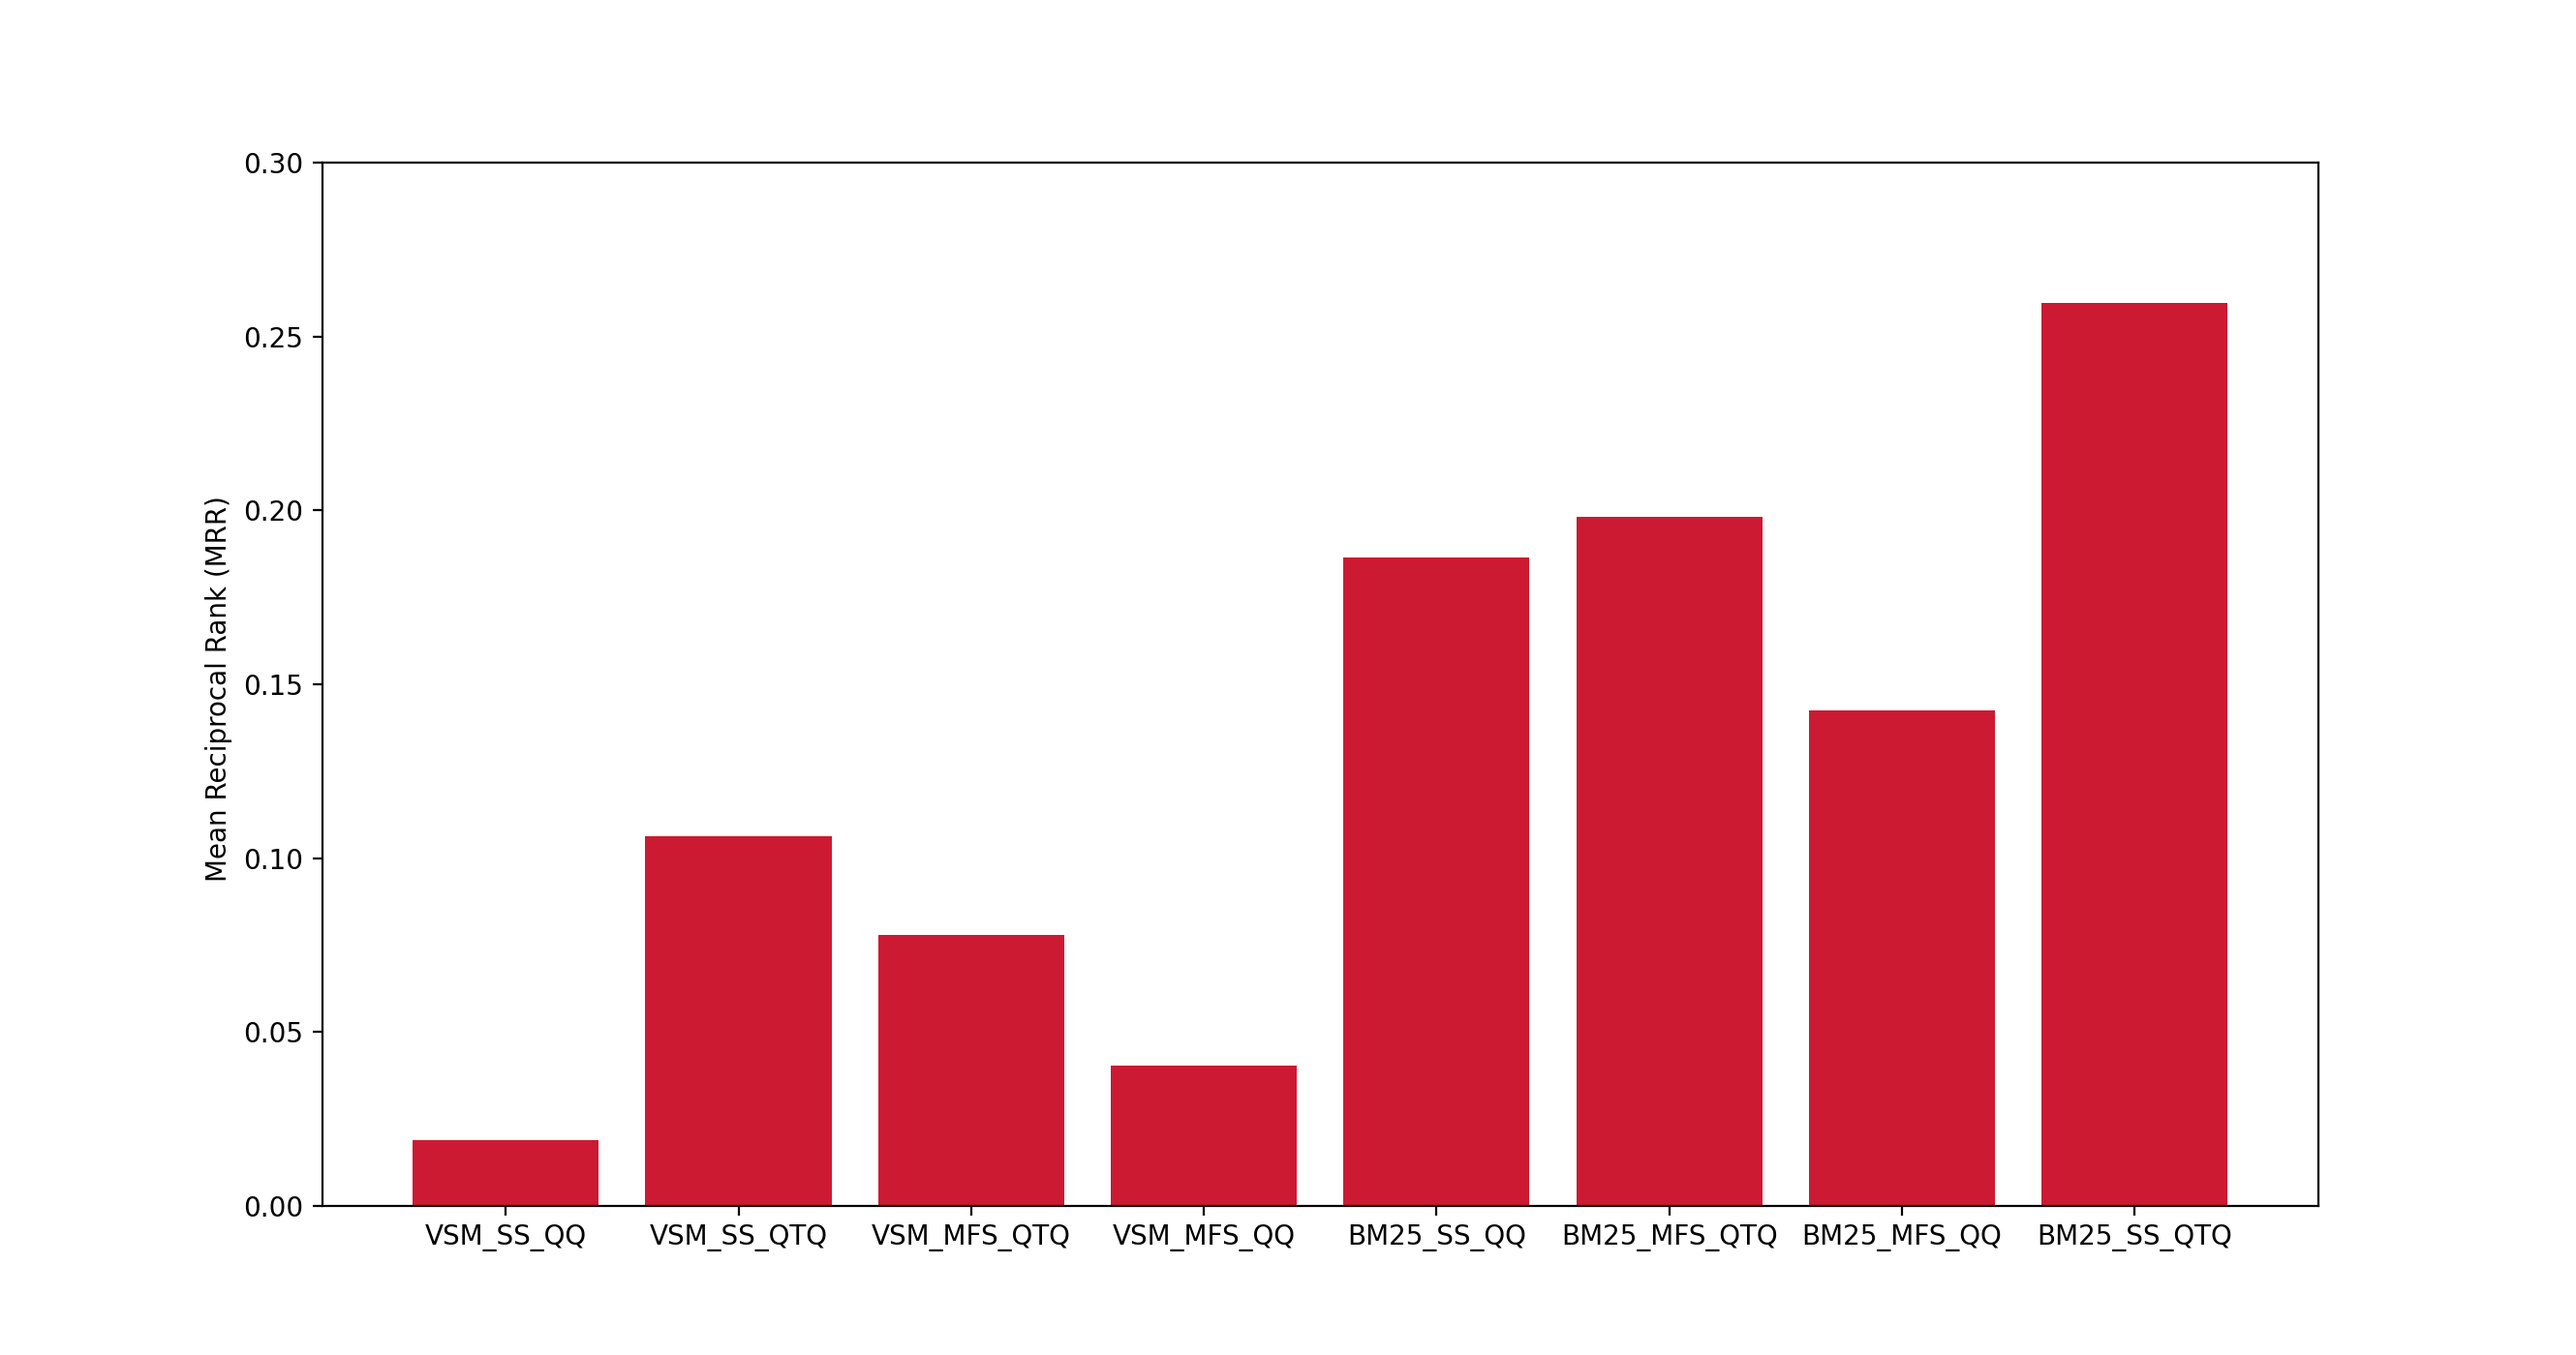
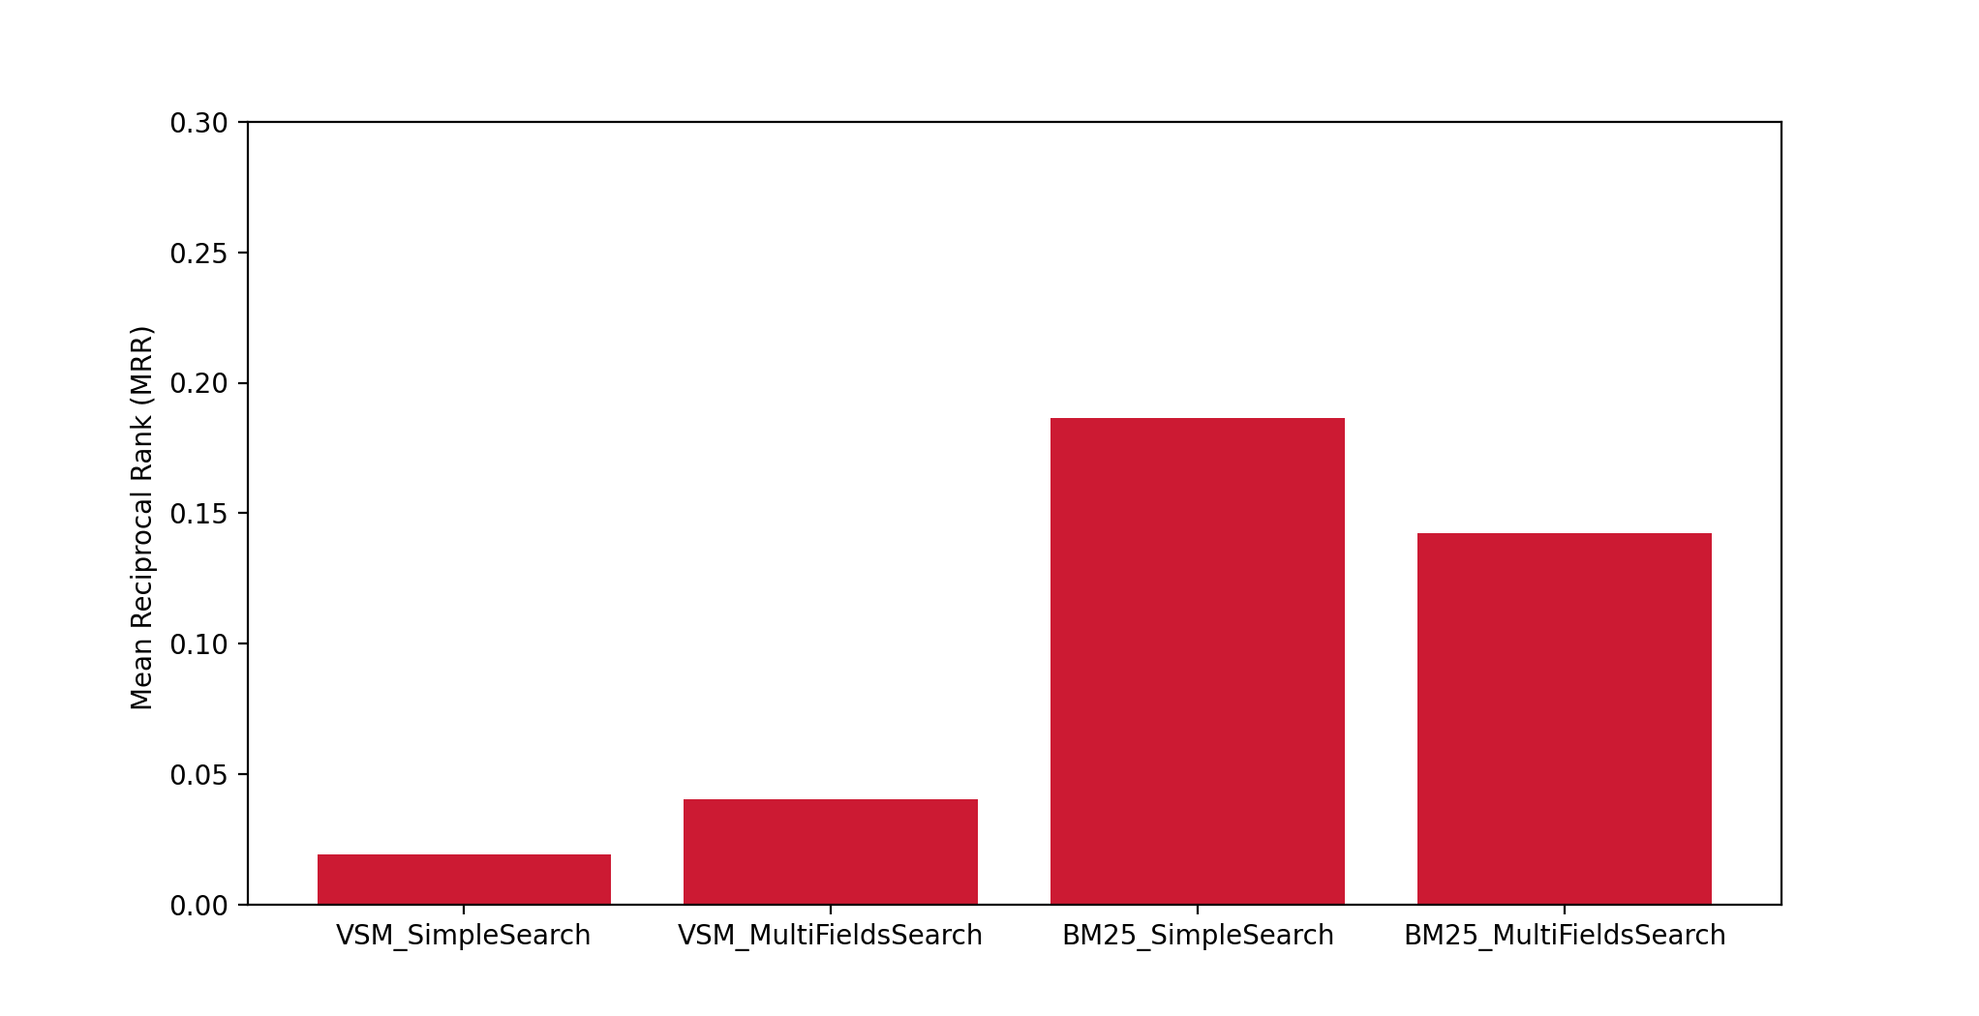
update graphs

diff --git a/IR/indexing/graphs.py b/IR/indexing/graphs.py
@@ -2,15 +2,11 @@ from pylab import *
 import numpy as np
 import matplotlib.pyplot as plt
 
-# Precision_Recall_Graph
-plot([0.0225,0.0164,0.0132,0.0113,0.0088,0.0039,0.0024,0.0012,0.0007],[0.1126,0.1641,0.1981,0.225,0.2651,0.3922,0.4716,0.5757,0.6532], label="VSM_MultiFieldsSearch_Question+TitleAsQuery")
-plot([0.0119,0.0091,0.0075,0.0065,0.0051,0.0023,0.0014,0.0006,0.0003],[0.0597,0.0907,0.1124,0.1292,0.1545,0.2298,0.2721,0.3175,0.3493], label="VSM_MultiFieldsSearch_QuestionAsQuery")
-plot([0.0296,0.0208,0.0166,0.014,0.0109,0.0048,0.0029,0.0014,0.0008],[0.1478,0.2084,0.2487,0.2795,0.326,0.4802,0.5728,0.6913,0.7688], label="VSM_SimpleSearch_Question+TitleAsQuery")
-plot([0.0048,0.0039,0.0034,0.0031,0.0026,0.0015,0.0011,0.0006,0.0004],[0.0238,0.0393,0.0511,0.061,0.0778,0.1496,0.211,0.3104,0.4016], label="VSM_SimpleSearch_QuestionAsQuery")
-plot([0.0541,0.0351,0.0267,0.0218,0.0161,0.0062,0.0035,0.0016,0.0008],[0.2704,0.3514,0.4004,0.4355,0.4844,0.6223,0.6938,0.7775,0.8314], label="BM25_MultiFieldsSearch_Question+TitleAsQuery")
-plot([0.0384,0.0244,0.0184,0.015,0.011,0.0042,0.0024,0.0011,0.0006],[0.1921,0.2438,0.2756,0.2996,0.3312,0.4231,0.4737,0.5415,0.5946], label="BM25_MultiFieldsSearch_QuestionAsQuery")
-plot([0.0697,0.0432,0.032,0.0257,0.0186,0.0068,0.0037,0.0016,0.0008],[0.3487,0.4319,0.4799,0.5139,0.5593,0.6806,0.7418,0.8089,0.8493], label="BM25_SimpleSearch_Question+TitleAsQuery")
-plot([0.0499,0.0311,0.0233,0.0188,0.0138,0.0052,0.0029,0.0013,0.0007],[0.2496,0.3115,0.3492,0.3763,0.4137,0.524,0.5834,0.656,0.7063], label="BM25_SimpleSearch_QuestionAsQuery")
+#Precision_Recall_Graph
+plot([0.0119,0.0091,0.0075,0.0065,0.0051,0.0023,0.0014,0.0006,0.0003],[0.0597,0.0907,0.1124,0.1292,0.1545,0.2298,0.2721,0.3175,0.3493], label="VSM_MultiFieldsSearch")
+plot([0.0048,0.0039,0.0034,0.0031,0.0026,0.0015,0.0011,0.0006,0.0004],[0.0238,0.0393,0.0511,0.061,0.0778,0.1496,0.211,0.3104,0.4016], label="VSM_SimpleSearch")
+plot([0.0384,0.0244,0.0184,0.015,0.011,0.0042,0.0024,0.0011,0.0006],[0.1921,0.2438,0.2756,0.2996,0.3312,0.4231,0.4737,0.5415,0.5946], label="BM25_MultiFieldsSearch")
+plot([0.0499,0.0311,0.0233,0.0188,0.0138,0.0052,0.0029,0.0013,0.0007],[0.2496,0.3115,0.3492,0.3763,0.4137,0.524,0.5834,0.656,0.7063], label="BM25_SimpleSearch")
 ylabel('Recall')
 xlabel('Precision')
 legend()
@@ -18,8 +14,8 @@ show()
 
 
 # # MRR_Histogram
-# height = [0.0190, 0.1062, 0.0778, 0.0404, 0.1865, 0.1982, 0.1424, 0.2596]
-# bars = ('VSM_SS_QQ', 'VSM_SS_QTQ', 'VSM_MFS_QTQ', 'VSM_MFS_QQ', 'BM25_SS_QQ', 'BM25_MFS_QTQ', 'BM25_MFS_QQ','BM25_SS_QTQ')
+# height = [0.0190, 0.0404, 0.1865, 0.1424]
+# bars = ('VSM_SimpleSearch', 'VSM_MultiFieldsSearch', 'BM25_SimpleSearch', 'BM25_MultiFieldsSearch')
 # y_pos = np.arange(len(bars))
 # plt.bar(y_pos, height, color = (0.8,0.10,0.2 ))
 # plt.ylabel('Mean Reciprocal Rank (MRR) ')
@@ -28,8 +24,8 @@ show()
 # plt.show()
 
 # #MAP_Histogram
-# height = [0.0190, 0.1062, 0.0778, 0.0404, 0.1865, 0.1982, 0.1424, 0.2596]
-# bars = ('VSM_SS_QQ', 'VSM_SS_QTQ', 'VSM_MFS_QTQ', 'VSM_MFS_QQ', 'BM25_SS_QQ', 'BM25_MFS_QTQ', 'BM25_MFS_QQ','BM25_SS_QTQ')
+# height = [0.0190, 0.0404, 0.1865, 0.1424]
+# bars = ('VSM_SimpleSearch', 'VSM_MultiFieldsSearch', 'BM25_SimpleSearch', 'BM25_MultiFieldsSearch')
 # y_pos = np.arange(len(bars))
 # plt.bar(y_pos, height, color = (0,0.1,0.4 ))
 # plt.ylabel('Mean Average Precision (MAP) ')
@@ -38,8 +34,8 @@ show()
 # plt.show()
 
 # # R_Pre_Histogram
-# height = [0.0071, 0.0548, 0.0346, 0.0159, 0.1236, 0.1237, 0.0917, 0.1738]
-# bars = ('VSM_SS_QQ', 'VSM_SS_QTQ', 'VSM_MFS_QTQ', 'VSM_MFS_QQ', 'BM25_SS_QQ', 'BM25_MFS_QTQ', 'BM25_MFS_QQ','BM25_SS_QTQ')
+# height = [0.0071, 0.0159, 0.1236, 0.0917]
+# bars = ('VSM_SimpleSearch', 'VSM_MultiFieldsSearch', 'BM25_SimpleSearch','BM25_MultiFieldsSearch')
 # y_pos = np.arange(len(bars))
 # plt.bar(y_pos, height, color = (0,0.6,0.4))
 # plt.ylabel('R-Precision (R-Prec) ')
@@ -48,28 +44,21 @@ show()
 # plt.show()
 
 # #R@K Graph
-# plot([5,10,15,20,30,100,200,500,1000],[0.1126,0.1641,0.1981,0.225,0.2651,0.3922,0.4716,0.5757,0.6532], label="VSM_MultiFieldsSearch_Question+TitleAsQuery")
-# plot([5,10,15,20,30,100,200,500,1000],[0.0597,0.0907,0.1124,0.1292,0.1545,0.2298,0.2721,0.3175,0.3493], label="VSM_MultiFieldsSearch_QuestionAsQuery")
-# plot([5,10,15,20,30,100,200,500,1000],[0.1478,0.2084,0.2487,0.2795,0.326,0.4802,0.5728,0.6913,0.7688], label="VSM_SimpleSearch_Question+TitleAsQuery")
-# plot([5,10,15,20,30,100,200,500,1000],[0.0238,0.0393,0.0511,0.061,0.0778,0.1496,0.211,0.3104,0.4016], label="VSM_SimpleSearch_QuestionAsQuery")
-# plot([5,10,15,20,30,100,200,500,1000],[0.2704,0.3514,0.4004,0.4355,0.4844,0.6223,0.6938,0.7775,0.8314], label="BM25_MultiFieldsSearch_Question+TitleAsQuery")
-# plot([5,10,15,20,30,100,200,500,1000],[0.1921,0.2438,0.2756,0.2996,0.3312,0.4231,0.4737,0.5415,0.5946], label="BM25_MultiFieldsSearch_QuestionAsQuery")
-# plot([5,10,15,20,30,100,200,500,1000],[0.3487,0.4319,0.4799,0.5139,0.5593,0.6806,0.7418,0.8089,0.8493], label="BM25_SimpleSearch_Question+TitleAsQuery")
-# plot([5,10,15,20,30,100,200,500,1000],[0.2496,0.3115,0.3492,0.3763,0.4137,0.524,0.5834,0.656,0.7063], label="BM25_SimpleSearch_QuestionAsQuery")
+# 
+# plot([5,10,15,20,30,100,200,500,1000],[0.0597,0.0907,0.1124,0.1292,0.1545,0.2298,0.2721,0.3175,0.3493], label="VSM_MultiFieldsSearch")
+# plot([5,10,15,20,30,100,200,500,1000],[0.0238,0.0393,0.0511,0.061,0.0778,0.1496,0.211,0.3104,0.4016], label="VSM_SimpleSearch")
+# plot([5,10,15,20,30,100,200,500,1000],[0.1921,0.2438,0.2756,0.2996,0.3312,0.4231,0.4737,0.5415,0.5946], label="BM25_MultiFieldsSearch")
+# plot([5,10,15,20,30,100,200,500,1000],[0.2496,0.3115,0.3492,0.3763,0.4137,0.524,0.5834,0.656,0.7063], label="BM25_SimpleSearch")
 # ylabel('R@K')
 # xlabel('K')
 # legend()
 # show()
 
 # #P@K Graph
-# plot([5,10,15,20,30,100,200,500,1000],[0.0225,0.0164,0.0132,0.0113,0.0088,0.0039,0.0024,0.0012,0.0007], label="VSM_MultiFieldsSearch_Question+TitleAsQuery")
-# plot([5,10,15,20,30,100,200,500,1000],[0.0119,0.0091,0.0075,0.0065,0.0051,0.0023,0.0014,0.0006,0.0003], label="VSM_MultiFieldsSearch_QuestionAsQuery")
-# plot([5,10,15,20,30,100,200,500,1000],[0.0296,0.0208,0.0166,0.014,0.0109,0.0048,0.0029,0.0014,0.0008], label="VSM_SimpleSearch_Question+TitleAsQuery")
-# plot([5,10,15,20,30,100,200,500,1000],[0.0048,0.0039,0.0034,0.0031,0.0026,0.0015,0.0011,0.0006,0.0004], label="VSM_SimpleSearch_QuestionAsQuery")
-# plot([5,10,15,20,30,100,200,500,1000],[0.0541,0.0351,0.0267,0.0218,0.0161,0.0062,0.0035,0.0016,0.0008], label="BM25_MultiFieldsSearch_Question+TitleAsQuery")
-# plot([5,10,15,20,30,100,200,500,1000],[0.0384,0.0244,0.0184,0.015,0.011,0.0042,0.0024,0.0011,0.0006], label="BM25_MultiFieldsSearch_QuestionAsQuery")
-# plot([5,10,15,20,30,100,200,500,1000],[0.0697,0.0432,0.032,0.0257,0.0186,0.0068,0.0037,0.0016,0.0008], label="BM25_SimpleSearch_Question+TitleAsQuery")
-# plot([5,10,15,20,30,100,200,500,1000],[0.0499,0.0311,0.0233,0.0188,0.0138,0.0052,0.0029,0.0013,0.0007], label="BM25_SimpleSearch_QuestionAsQuery")
+# plot([5,10,15,20,30,100,200,500,1000],[0.0119,0.0091,0.0075,0.0065,0.0051,0.0023,0.0014,0.0006,0.0003], label="VSM_MultiFieldsSearch")
+# plot([5,10,15,20,30,100,200,500,1000],[0.0048,0.0039,0.0034,0.0031,0.0026,0.0015,0.0011,0.0006,0.0004], label="VSM_SimpleSearch")
+# plot([5,10,15,20,30,100,200,500,1000],[0.0384,0.0244,0.0184,0.015,0.011,0.0042,0.0024,0.0011,0.0006], label="BM25_MultiFieldsSearch")
+# plot([5,10,15,20,30,100,200,500,1000],[0.0499,0.0311,0.0233,0.0188,0.0138,0.0052,0.0029,0.0013,0.0007], label="BM25_SimpleSearch")
 # ylabel('P@K')
 # xlabel('K')
 # legend()
